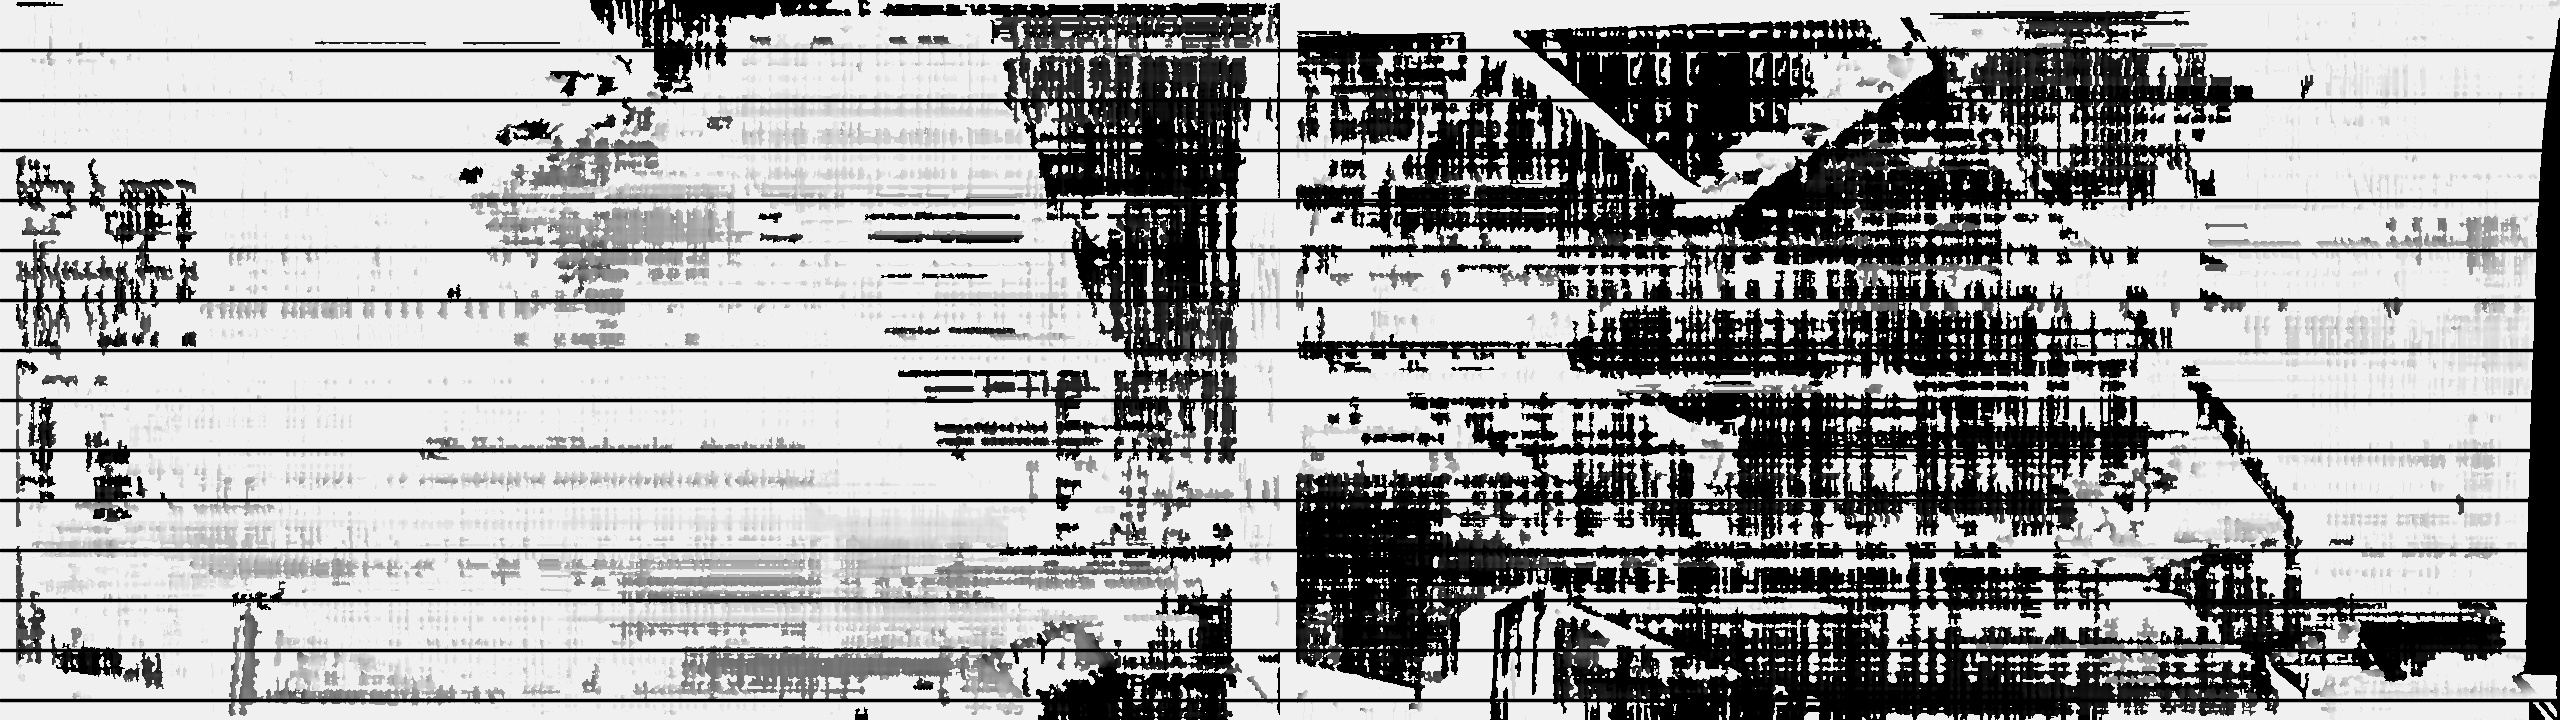
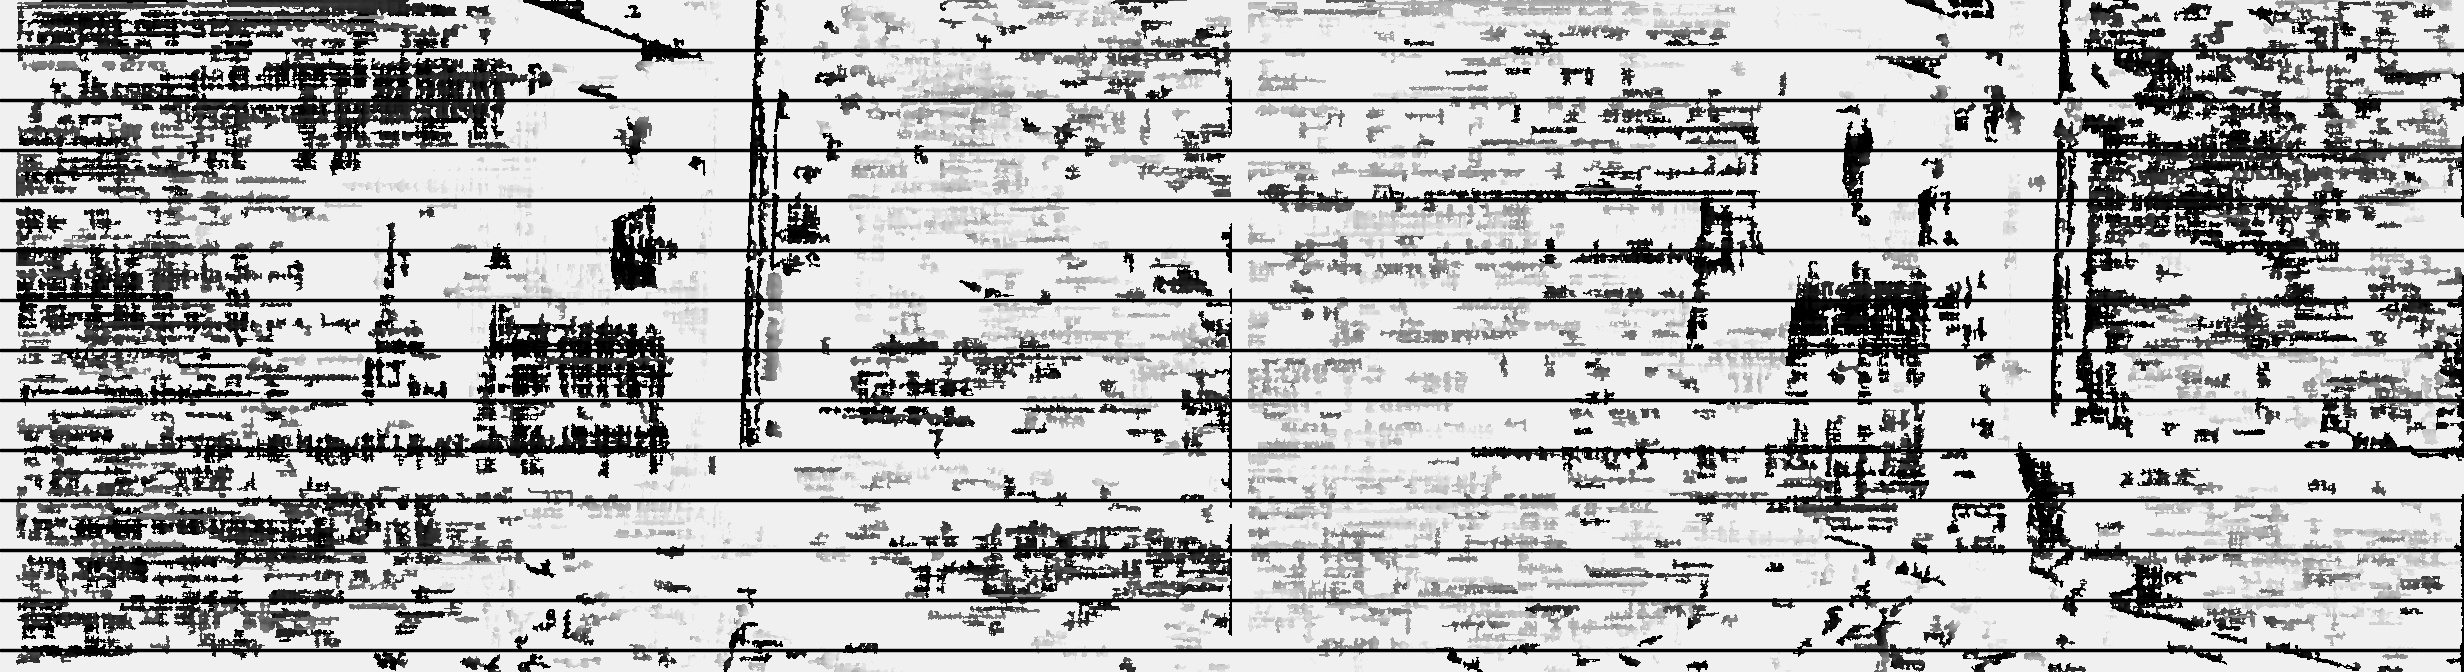
crop black boarder

diff --git a/binocular2disparity.py b/binocular2disparity.py
@@ -1,8 +1,6 @@
 
 import cv2
 import numpy as np
-import matplotlib.pyplot as plt # plt 用于显示图片
-import matplotlib.image as mpimg # mpimg 用于读取图片
 
 from calibration import StereoCalibration, stereo
 
@@ -151,6 +149,14 @@ def disparity_BM(left_image, right_image, down_scale=False):
 
     return disparityL, disparityR
 
+def remove_black_borders(image):
+    height, width = image.shape[0:2]
+    height = height // 2
+    width = width // 2
+    ext_height = (height // 8 - 3) * 8
+    ext_width = (width // 8 - 3) * 8
+    image = image[height-ext_height:height+ext_height, width-ext_width:width+ext_width]
+    return image
 
 if __name__ == '__main__':
 
@@ -160,37 +166,33 @@ if __name__ == '__main__':
         calibration.calibration_photo(11, 8)
         stereo.show()
 
-    data_dir = "frames/22-10-25_23-19-58/"
-    imgL = cv2.imread(data_dir+"left/00001.bmp")
-    imgR = cv2.imread(data_dir+"right/00001.bmp")
+    data_dir = "frames/22-10-26_01-13-42/"
+    imgL = cv2.imread(data_dir+"left/00100.bmp")
+    imgR = cv2.imread(data_dir+"right/00100.bmp")
     #imgL , imgR = preprocess(imgL ,imgR )
    
     height, width = imgL.shape[0:2]
     config = stereoCameral(stereo)    # 读取相机内参和外参
 
     # # 去畸变
-    imgL = undistortion(imgL ,config.cam_matrix_left , config.distortion_l )
-    imgR = undistortion(imgR ,config.cam_matrix_right, config.distortion_r )
+    # imgL = undistortion(imgL ,config.cam_matrix_left , config.distortion_l )
+    # imgR = undistortion(imgR ,config.cam_matrix_right, config.distortion_r )
    
     # 去畸变和几何极线对齐
-    map1x, map1y, map2x, map2y, Q = getRectifyTransform(height, width, config)
-    iml_rectified, imr_rectified = rectifyImage(imgL, imgR, map1x, map1y, map2x, map2y)
+    # map1x, map1y, map2x, map2y, Q = getRectifyTransform(height, width, config)
+    # imgL, imgR = rectifyImage(imgL, imgR, map1x, map1y, map2x, map2y)
     
-    linepic = draw_line_RGB(iml_rectified , imr_rectified)
+    linepic = draw_line_RGB(imgL , imgR)
     cv2.imwrite("LR.jpg", linepic)
 
+    imgL = remove_black_borders(imgL)
+    imgR = remove_black_borders(imgR)
+    
+    linepic = draw_line_RGB(imgL , imgR)
+    cv2.imwrite("cropLR.jpg", linepic)
     # 计算视差
-    dispL, dispR = disparity_SGBM(iml_rectified, imr_rectified) # disparity_SGBM  disparity_BM
+    dispL, dispR = disparity_SGBM(imgL, imgR) # disparity_SGBM  disparity_BM
     
     
     linepic2 = draw_line_depth(dispL, dispR)
     cv2.imwrite("dispLR.jpg", linepic2)
-
-    # reproject
-    depthL = cv2.reprojectImageTo3D(dispL, Q)
-    cv2.imwrite("depthL.jpg", depthL)
-    # while True:
-    #     if cv2.waitKey(1) & 0xFF == ord('q'):
-    #         break
-
-#     points_3d = cv2.reprojectImageTo3D(dispL, Q)

diff --git a/binocular2depth.py b/binocular2depth.py
@@ -203,11 +203,13 @@ def block_process(sid, eid):
 
 
 def remove_black_borders(image):
-    
-    ret, image = cv2.threshold(image,5,255,cv2.THRESH_BINARY_INV)
-    # print(image)
-    y_nonzero, x_nonzero, _ = np.nonzero(image)
-    return image[np.min(y_nonzero):np.max(y_nonzero), np.min(x_nonzero):np.max(x_nonzero)]
+    height, width = image.shape[0:2]
+    height = height // 2
+    width = width // 2
+    ext_height = (height // 8 - 3) * 8
+    ext_width = (width // 8 - 3) * 8
+    image = image[height-ext_height:height+ext_height, width-ext_width:width+ext_width]
+    return image
 
 if __name__ == '__main__':
 

diff --git a/frames2video.py b/frames2video.py
@@ -1,0 +1,18 @@
+import cv2
+import numpy as np
+import glob
+from tqdm import tqdm
+img_array = []
+img_dir = sorted(glob.glob("frames/22-10-26_01-13-42/left/*.bmp"))
+for filename in img_dir: # [:len(img_dir)//8]
+    img = cv2.imread(filename)
+    height, width, layers = img.shape
+    size = (width,height)
+    img_array.append(img)
+
+
+out = cv2.VideoWriter('frames.mp4',cv2.VideoWriter_fourcc(*'DIVX'), 20, size)
+ 
+for i in tqdm(range(len(img_array))):
+    out.write(img_array[i])
+out.release()
